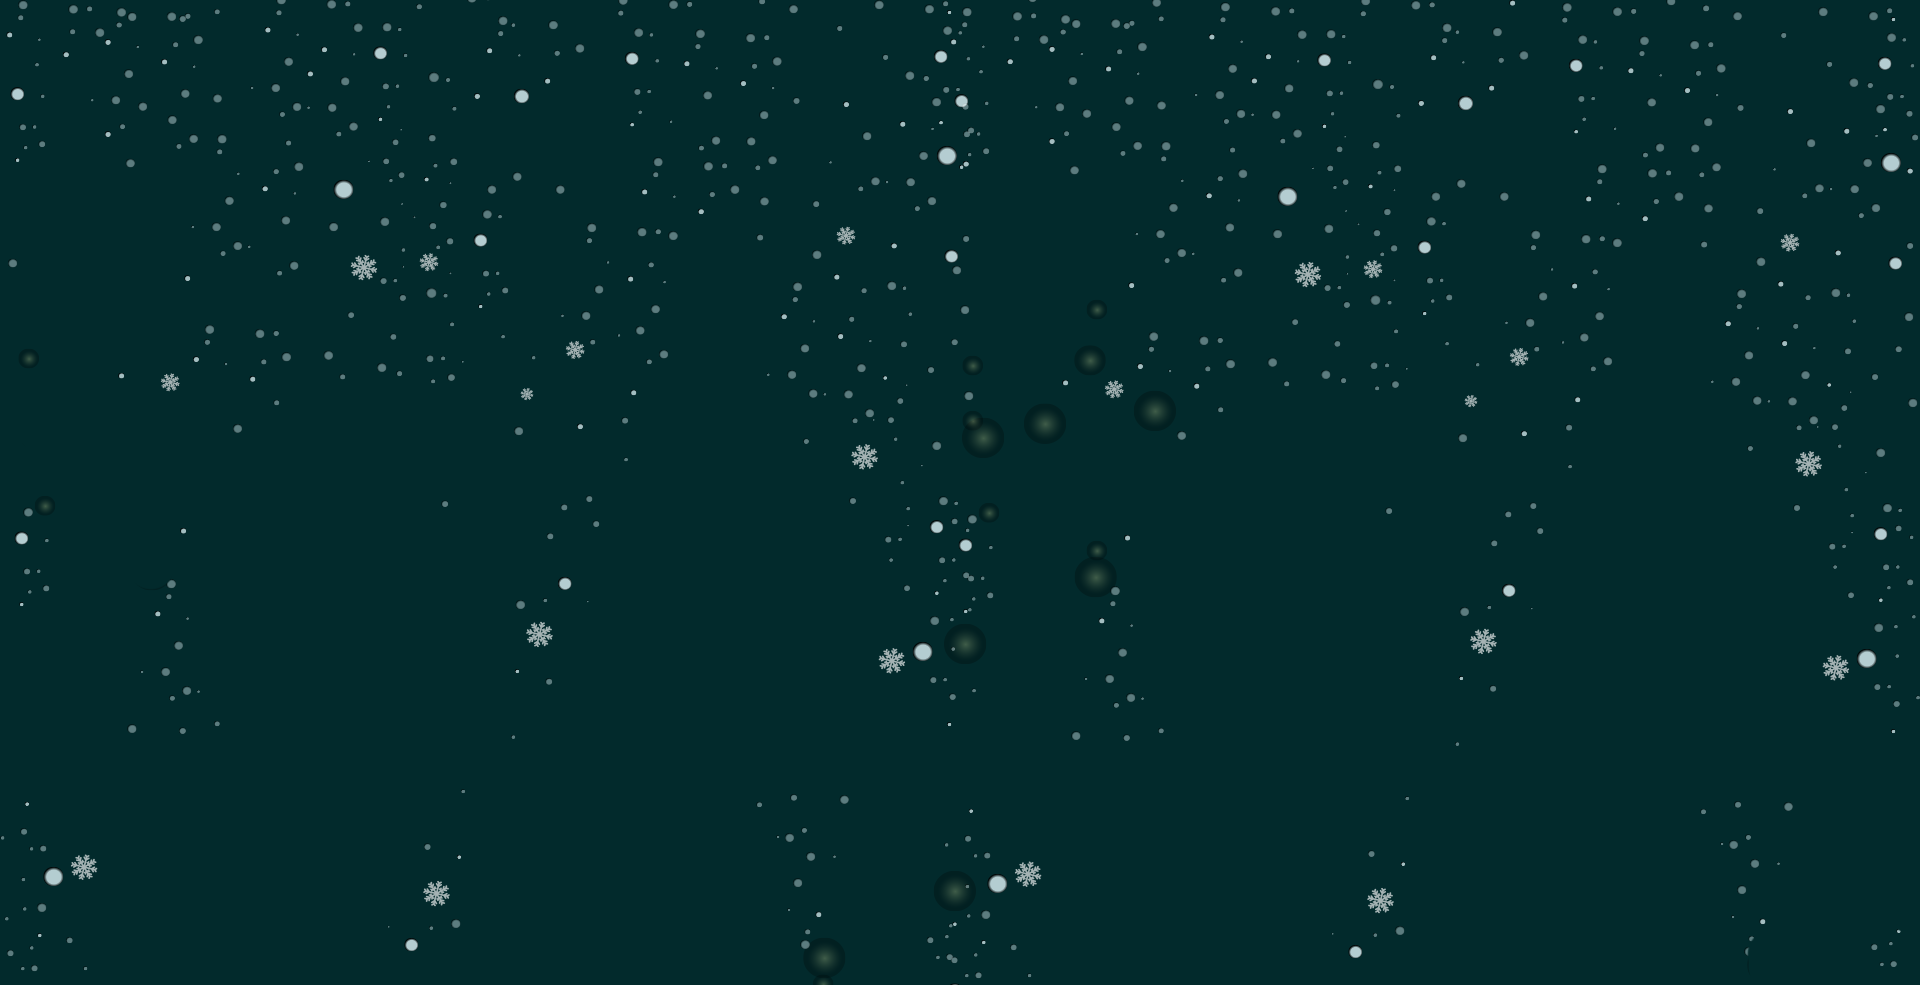
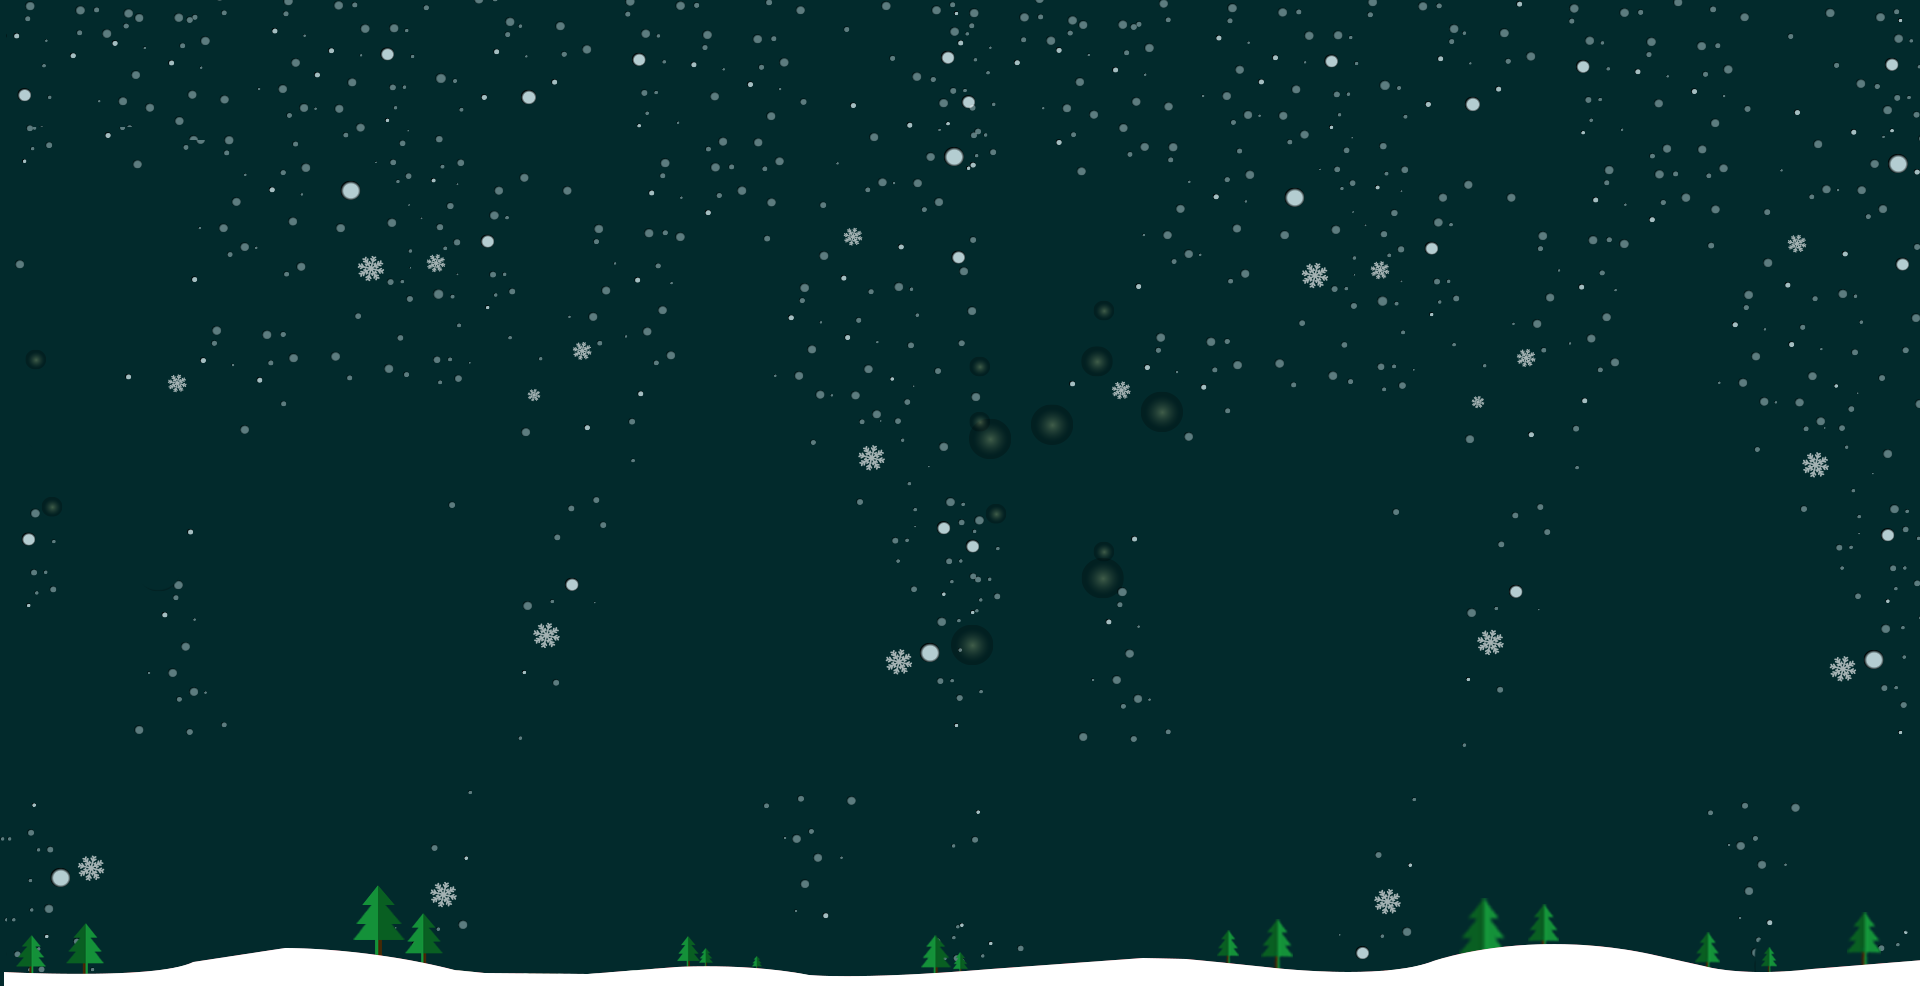
左下角老头更新

diff --git a/src/js/containers/call/mainVessel/leftVessel/topVessel/rightContentVessel/whiteboardToolAndControlOverallBar/whiteboardToolBar_gogotalk.js b/src/js/containers/call/mainVessel/leftVessel/topVessel/rightContentVessel/whiteboardToolAndControlOverallBar/whiteboardToolBar_gogotalk.js
@@ -91,6 +91,7 @@ class WhiteboardToolBarSmart extends React.Component{
     };
     /*所有li的点击事件处理*/
     allLiClick( clickId ,  active = false , more = false , removeOtherActive = true ){
+        $('.FreeScrollbar-vertical-track').css('zIndex',-1);
         let $li =  $("#header_tool_vessel").find("li") ;
         if(removeOtherActive){
             $li.removeClass('active') ;
@@ -109,7 +110,7 @@ class WhiteboardToolBarSmart extends React.Component{
                 }
             }
         }else{
-            $li.removeClass('more') ;
+            $li.removeClass('more');
         }
         if( clickId !== 'whiteboard_tool_vessel_text' ){
             $li.filter("#"+clickId).find(".header-tool-extend li[data-select=true]").trigger('click' , [true] );
@@ -121,6 +122,7 @@ class WhiteboardToolBarSmart extends React.Component{
 
     /*所有的扩展栏中点击事件处理*/
     allExtnedClick(clickId , clickType ){
+        
         const that = this ;
         switch (clickType){
             case  'pencil':
@@ -142,10 +144,14 @@ class WhiteboardToolBarSmart extends React.Component{
 
     /*所有li的鼠标移出事件处理*/
     allLiMouseLeave( elementId ){
-        $("#"+elementId).removeClass('more') ;
-        if(elementId === 'whiteboard_tool_vessel_color_strokesize'){
-            $("#"+elementId).removeClass('active') ;
-        }
+        $('.FreeScrollbar-vertical-track').css('zIndex',0);
+        window.setTimeout(()=>{
+            
+            $("#"+elementId).removeClass('more') ;
+            if(elementId === 'whiteboard_tool_vessel_color_strokesize'){
+                $("#"+elementId).removeClass('active') ;
+            }
+        },500)
     };
 
     /*改变大小的点击事件*/
@@ -231,8 +237,8 @@ class WhiteboardToolBarSmart extends React.Component{
         let {mouse , laser , brush , text , shape , undo , redo , eraser  , clear ,colorAndSize} = that.state.showItemJson ;
         return (
             // gogotalk
-            <div style={{width: '300px', height: '100px'}}>
-            <FreeScrollBar>        
+            <div style={{width: '4rem', height: '400px',position:'relative',zIndex:'999'}}>
+            <FreeScrollBar style={{width:'100%',height:'100%',overflow:'hidden'}}>        
             <ol className="add-fl gogo_leftbar_ban clear-float h-tool" id="header_tool_vessel"  style={{display:!that.state.show ? 'none' : ''}}  > {/*白板工具栏*/}
                 <li className="tool-li tl-mouse"  id="whiteboard_tool_vessel_mouse"  style={{display:!mouse?'none':undefined }} >
                     <button className="header-tool"  title={TkGlobal.language.languageData.header.tool.mouse.title}  id="tool_mouse"   onClick={that.allLiClick.bind(that , 'whiteboard_tool_vessel_mouse' , true , false , true) }  >
@@ -355,6 +361,8 @@ class WhiteboardToolBarSmart extends React.Component{
             </ol>
             
             </FreeScrollBar>
+            <div className="left_bar_bottom_bg">
+            </div>
             </div>
         )
     };

diff --git a/src/css/igogotalk.css b/src/css/igogotalk.css
@@ -1,7 +1,4 @@
-/*gogotalk*/
-.FreeScrollbar{
-    overflow: initial!important;
-}
+/*英联邦样式*/
 .igogotalk{
     background:url('../img/gogo_img/g_Christmas.png')no-repeat 100% 100%; 
 }
@@ -73,6 +70,14 @@
     margin-right: 0.1rem;
    
 }
+.igogotalk .left_bar_bottom_bg{
+    width: 2.5rem;
+    position: absolute;
+    height: 3rem;
+    bottom: -1rem;
+    background-image: url('../img/gogo_img/icon_Christmas_ren.png');
+    background-size: 100% auto;
+}
 .igogotalk .header-wrap .tool-icon-wrap .tl-left-document-list{
     
     background: url('../img/gogo_img/icon_christmas_top_left_1.png');
@@ -123,6 +128,9 @@
 .igogotalk .h-tool .tool-pencil-extend ul li,.igogotalk .h-tool .tool-text-extend ul li,.igogotalk .h-tool .tool-shape-extend ul li{
     border-bottom:0.01rem solid #2260d4;
 }
+.igogotalk .FreeScrollbar-vertical-track {
+    right: 2.7rem!important;
+}
 .igogotalk .header-tool-extend-option-wrap{
     border-top:0.01rem solid #2260d4;
 }
@@ -138,11 +146,12 @@
 }
 .igogotalk .gogotalk_leftbar_box ol{
     /* overflow: auto; */
-    width: 100%;
+    /* width: 100%; */
+    width: 1.3rem;
     margin-top: -0.1rem;
 }
 .igogotalk .gogotalk_leftbar_box .gogo_leftbar_ban{
-    height: 6.5rem;
+    /* height: 6.5rem; */
 }
 .igogotalk .gogotalk_leftbar_box ol>li{
     width: 1.4rem;
@@ -332,11 +341,11 @@
 .igogotalk .h-tool li .header-tool-extend{
     width: 1.8rem;
     left: 100%!important;
-    display: block!important;
+    /* display: block!important; */
 
     background-size: 100% 100%;
 
-    opacity: 1!important;
+    /* opacity: 1!important; */
 
     background: #fdeabb;
     border-radius: 0.15rem;
@@ -719,38 +728,3 @@
 
 
 
-
-/* gogotalk增加  引导页 springfeng*/
-.chinese .igogotalk .bg1{
-	background-image: url('../img/gogo_img/step_tea_1.png') !important;
-}
-.chinese .igogotalk .bg2{
-	background-image: url('../img/gogo_img/step_tea_2.png') !important;
-}
-.chinese .igogotalk .bg3{
-	background-image: url('../img/gogo_img/step_tea_3.png') !important;
-}
-.chinese .igogotalk .bg4{
-	background-image: url('../img/gogo_img/step_tea_4.png') !important;
-}
-.chinese .igogotalk .bg5{
-	background-image: url('../img/gogo_img/step_tea_5.png') !important;
-}
-.chinese .igogotalk .bg6{
-	background-image: url('../img/gogo_img/step_tea_6.png') !important;
-}
-.chinese .igogotalk .bg7{
-	background-image: url('../img/gogo_img/step_tea_7.png') !important;
-}
-.chinese .igogotalk .bg1 .student{
- 	background-image: url('../img/gogo_img/step_stu_1.png') !important;
-}
-.chinese  .igogotalk .bg2 .student{
-	background-image: url('../img/gogo_img/step_stu_2.png') !important;
-}
-.chinese  .igogotalk .bg3 .student{
-	background-image: url('../img/gogo_img/step_stu_3.png') !important;
-}
-.chinese .igogotalk .bg4 .student{
-	background-image: url('../img/gogo_img/step_stu_4.png') !important;
-}
